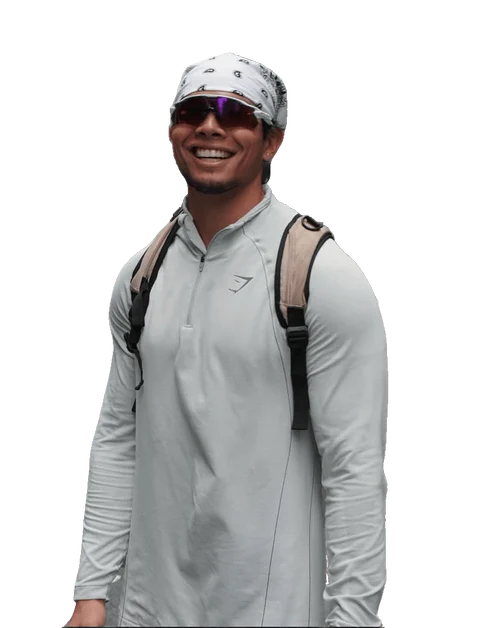
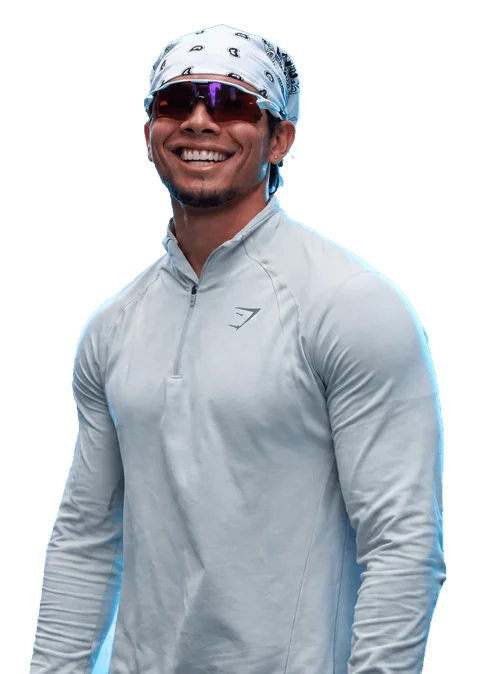
Use the user's new studio photo for the hero
Background removed from the supplied image (Jan in a light quarter-zip,
bandana and sport glasses) and exported as a transparent cutout at 670px
and 480px. The coach position is tuned per width (tablet, 1200-1440px
laptops, wide desktop) so the headline never crosses his face.

Claude-Session: https://claude.ai/code/session_01WBaQmVRppHsLpJ59bicC6K

diff --git a/index.html b/index.html
@@ -14,7 +14,7 @@
   <link rel="preload" href="assets/fonts/hanken-grotesk-latin-300-normal.woff2" as="font" type="font/woff2" crossorigin>
   <link rel="preload" href="assets/fonts/hanken-grotesk-latin-400-normal.woff2" as="font" type="font/woff2" crossorigin>
   <link rel="preload" href="assets/fonts/hanken-grotesk-latin-700-normal.woff2" as="font" type="font/woff2" crossorigin>
-  <link rel="preload" as="image" href="assets/fotos/jan-hero.webp" imagesrcset="assets/fotos/jan-hero-480.webp 480w, assets/fotos/jan-hero.webp 800w" imagesizes="(min-width: 52em) 40vw, 86vw">
+  <link rel="preload" as="image" href="assets/fotos/jan-hero.webp" imagesrcset="assets/fotos/jan-hero-480.webp 480w, assets/fotos/jan-hero.webp 670w" imagesizes="(min-width: 52em) 40vw, 86vw">
   <link rel="stylesheet" href="styles.css">
   <script>document.documentElement.classList.add('js')</script>
 </head>
@@ -57,7 +57,7 @@
     <!-- Foto del coach: cambia jan-hero.webp (PNG/WebP con fondo transparente, vertical) para usar otra. -->
     <div class="hero-figure">
       <svg class="hero-waves" id="hero-waves" viewBox="0 0 900 700" preserveAspectRatio="xMidYMid slice" aria-hidden="true" focusable="false"></svg>
-      <img class="hero-coach" src="assets/fotos/jan-hero.webp" srcset="assets/fotos/jan-hero-480.webp 480w, assets/fotos/jan-hero.webp 800w" sizes="(min-width: 52em) 40vw, 86vw" alt="Jan Medina sonriendo con su mochila en una calle de la ciudad" width="800" height="1046" fetchpriority="high">
+      <img class="hero-coach" src="assets/fotos/jan-hero.webp" srcset="assets/fotos/jan-hero-480.webp 480w, assets/fotos/jan-hero.webp 670w" sizes="(min-width: 52em) 40vw, 86vw" alt="Jan Medina sonriendo, con bandana y gafas deportivas" width="670" height="941" fetchpriority="high">
     </div>
 
     <dl class="hero-stats" aria-label="Jan en números">

diff --git a/styles.css b/styles.css
@@ -162,7 +162,7 @@ strong { font-weight: 500; }
   .button-cta { grid-column: 2 / 7; grid-row: 2; margin-top: clamp(1.75rem, 4vh, 2.75rem); }
   .hero-figure { position: absolute; z-index: 1; left: 44%; right: 0; bottom: 0; top: 0; height: auto; margin: 0; pointer-events: none; }
   .hero-waves { inset: -4% -12% -2% -34%; width: 146%; height: 106%; }
-  .hero-coach { left: 40%; height: 96%; transform: translateX(-50%); }
+  .hero-coach { left: 45%; height: 96%; transform: translateX(-50%); }
   .hero-stats { grid-column: 11 / 13; grid-row: 1; align-self: start; grid-template-columns: 1fr; gap: 2.5rem; margin-top: 0.4rem; justify-self: end; }
   .hero-rule { grid-column: 1 / 8; grid-row: 4; margin-bottom: clamp(1.75rem, 4vh, 2.75rem); }
   .hero-intro { grid-column: 2 / 6; grid-row: 5; }
@@ -171,9 +171,12 @@ strong { font-weight: 500; }
 @media (min-width: 52em) and (max-width: 74.99em) {
   .hero-h1 { grid-column: 2 / 10; font-size: var(--step-head); }
   .hero-figure { left: 42%; }
-  .hero-coach { left: 60%; height: 78%; }
+  .hero-coach { left: 44%; height: 76%; }
   .hero-stats { grid-column: 10 / 13; }
   .hero-intro { grid-column: 2 / 7; }
+}
+@media (min-width: 75em) and (max-width: 89.99em) {
+  .hero-coach { left: 53%; height: 94%; }
 }
 .hero-scroll-dot { position: absolute; top: 0.3rem; left: 50%; width: 5px; height: 5px; margin-left: -2.5px; border-radius: 50%; background: var(--sky); }
 /* ---------- panel: por qué Jan ---------- */
